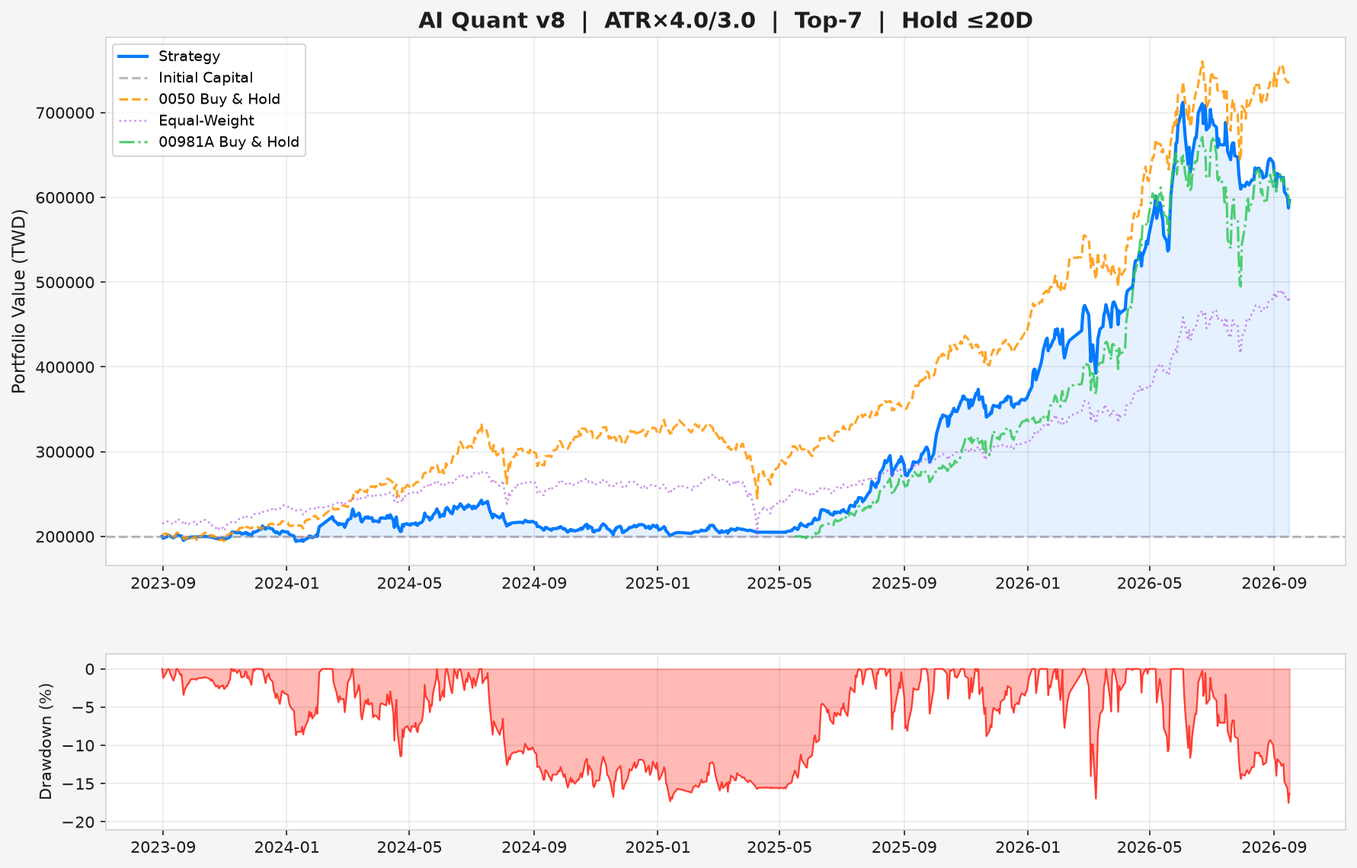
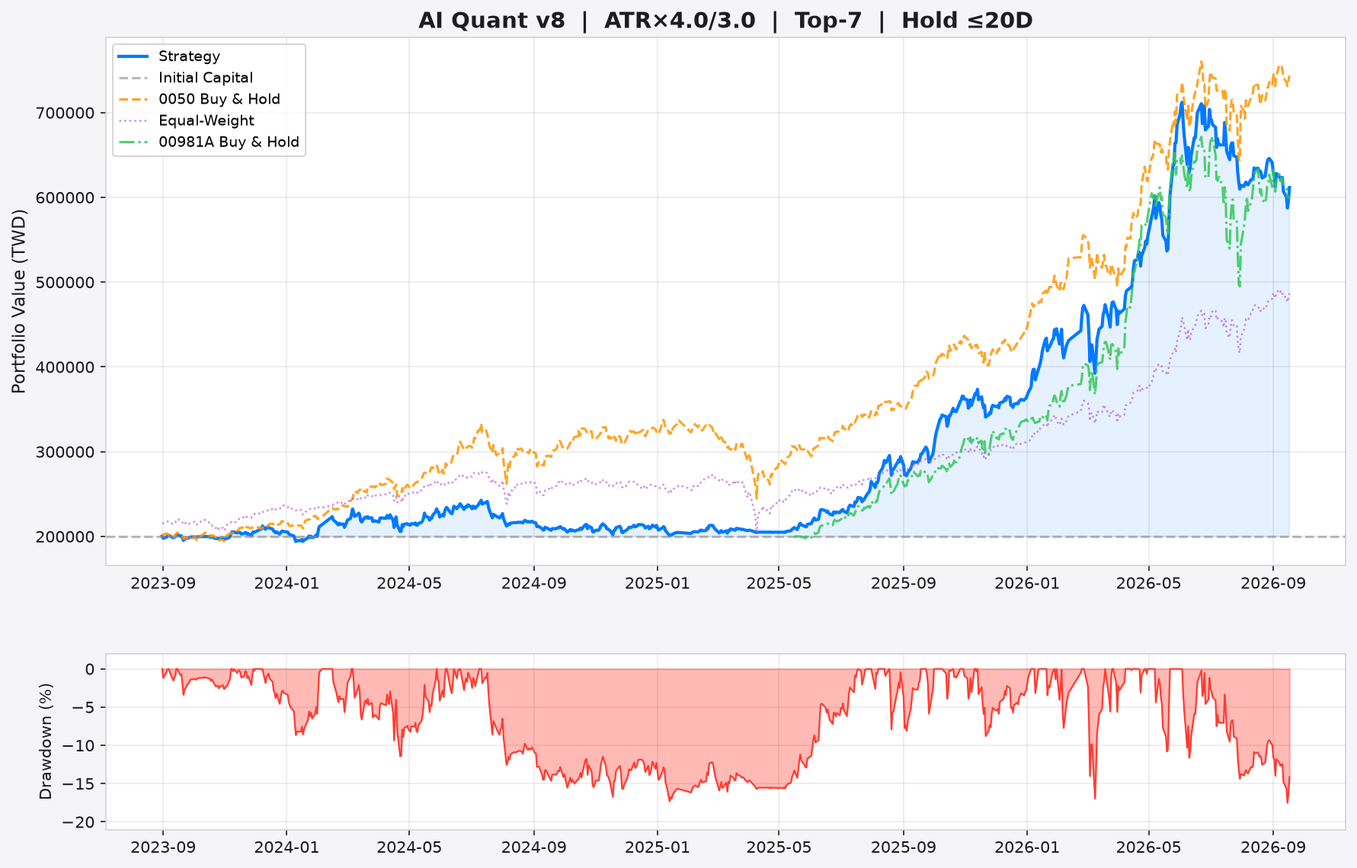
📊 AI Report v8.5 + Paper Trading (2026-09-17)

diff --git a/stock_report.html b/stock_report.html
@@ -3,7 +3,7 @@
 <head>
     <meta charset="utf-8">
     <meta name="viewport" content="width=device-width, initial-scale=1.0">
-    <title>AI 台股量化交易 v8.5 — 2026-09-16</title>
+    <title>AI 台股量化交易 v8.5 — 2026-09-17</title>
     <meta name="description" content="AI 驅動的台股量化交易系統 v8.5，完整風險報告、Benchmark 對比、OCO 智慧掛單建議">
     <script>
         (function() {
@@ -292,7 +292,7 @@
 
     <h1>🎯 AI 台股量化交易 v8.5</h1>
     <p class="subtitle">
-        Event-Driven System &nbsp;|&nbsp; 報表日期: 2026-09-16 &nbsp;|&nbsp;
+        Event-Driven System &nbsp;|&nbsp; 報表日期: 2026-09-17 &nbsp;|&nbsp;
         <span class="config-badge">🛡 ATR×4.0/3.0</span>
         <span class="config-badge">🎯 Top-7</span>
         <span class="config-badge">⏱ 最長 20 天</span>
@@ -303,23 +303,23 @@
     <div class="stats">
         <div class="stat-card">
             <div class="label">策略總報酬率</div>
-            <div class="value" style="color:#00ff00;">+198.2%</div>
+            <div class="value" style="color:#00ff00;">+205.8%</div>
         </div>
         <div class="stat-card">
             <div class="label">年化報酬率</div>
-            <div class="value" style="color:#00ff00;">+45.1%</div>
+            <div class="value" style="color:#00ff00;">+46.3%</div>
         </div>
         <div class="stat-card">
             <div class="label">年化波動率</div>
-            <div class="value">25.9%</div>
+            <div class="value">26.0%</div>
         </div>
         <div class="stat-card risk">
             <div class="label">Sharpe Ratio</div>
-            <div class="value" style="color:#00ff00;">1.57</div>
+            <div class="value" style="color:#00ff00;">1.60</div>
         </div>
         <div class="stat-card risk">
             <div class="label">Sortino Ratio</div>
-            <div class="value">2.25</div>
+            <div class="value">2.31</div>
         </div>
         <div class="stat-card risk">
             <div class="label">最大回撤</div>
@@ -327,7 +327,7 @@
         </div>
         <div class="stat-card risk">
             <div class="label">Calmar Ratio</div>
-            <div class="value">2.57</div>
+            <div class="value">2.64</div>
         </div>
         <div class="stat-card">
             <div class="label">完成交易數</div>
@@ -370,23 +370,23 @@
             </tr>
         </thead>
         <tbody>
-<tr><td>2883</td><td>3.98</td><td>39.2</td><td><span style="color:#00ff00; font-weight:bold;">🟢 建議買進 #1</span></td><td><b>停利:</b> <span style="color:#00ff00">43.5</span> (+11.1%) <br><b>停損:</b> <span style="color:#ff4444">35.9</span> (-8.3%) <br><b>最晚出場:</b> 2026-10-19</td><td><span style="font-size:0.72rem; color:#555;">歷史資料不足</span></td><td><span style="font-size:0.78rem;">🟢 大買<br><span style="color:#00ff00; font-weight:bold;">+3.8%</span></span></td><td><span style="font-size:0.78rem;">⚪ 中性</span></td></tr>
-<tr><td>2884</td><td>3.87</td><td>46.5</td><td><span style="color:#00ff00; font-weight:bold;">🟢 建議買進 #2</span></td><td><b>停利:</b> <span style="color:#00ff00">51.6</span> (+11.0%) <br><b>停損:</b> <span style="color:#ff4444">42.6</span> (-8.3%) <br><b>最晚出場:</b> 2026-10-19</td><td><span style="font-size:0.72rem; color:#888;">歷史 <b>4</b>筆 | 勝率 <b style="color:#00ff00">75%</b> | 均報酬 <b style="color:#00ff00">+1.9%</b></span></td><td><span style="font-size:0.78rem;">⚪ 無資料<br><span style="color:#888; font-weight:bold;">+0.0%</span></span></td><td><span style="font-size:0.78rem;">⚪ 中性</span></td></tr>
-<tr><td>2887</td><td>3.80</td><td>44.4</td><td><span style="color:#00ff00; font-weight:bold;">🟢 建議買進 #3</span></td><td><b>停利:</b> <span style="color:#00ff00">49.4</span> (+11.1%) <br><b>停損:</b> <span style="color:#ff4444">40.7</span> (-8.4%) <br><b>最晚出場:</b> 2026-10-19</td><td><span style="font-size:0.72rem; color:#888;">歷史 <b>2</b>筆 | 勝率 <b style="color:#00ff00">100%</b> | 均報酬 <b style="color:#00ff00">+8.1%</b></span></td><td><span style="font-size:0.78rem;">⚪ 無資料<br><span style="color:#888; font-weight:bold;">+0.0%</span></span></td><td><span style="font-size:0.78rem;">⚪ 中性</span></td></tr>
-<tr><td>1303</td><td>3.58</td><td>224.0</td><td><span style="color:#00ff00; font-weight:bold;">🟢 建議買進 #4</span></td><td><b>停利:</b> <span style="color:#00ff00">284.7</span> (+27.1%) <br><b>停損:</b> <span style="color:#ff4444">178.5</span> (-20.3%) <br><b>最晚出場:</b> 2026-10-19</td><td><span style="font-size:0.72rem; color:#888;">歷史 <b>11</b>筆 | 勝率 <b style="color:#00ff00">73%</b> | 均報酬 <b style="color:#00ff00">+8.2%</b></span></td><td><span style="font-size:0.78rem;">⚪ 無資料<br><span style="color:#888; font-weight:bold;">+0.0%</span></span></td><td><span style="font-size:0.78rem;">⚪ 中性</span></td></tr>
-<tr><td>2881</td><td>3.58</td><td>153.0</td><td><span style="color:#00ff00; font-weight:bold;">🟢 建議買進 #5</span></td><td><b>停利:</b> <span style="color:#00ff00">172.6</span> (+12.8%) <br><b>停損:</b> <span style="color:#ff4444">138.3</span> (-9.6%) <br><b>最晚出場:</b> 2026-10-19</td><td><span style="font-size:0.72rem; color:#888;">歷史 <b>5</b>筆 | 勝率 <b style="color:#ff4444">40%</b> | 均報酬 <b style="color:#00ff00">+0.4%</b></span></td><td><span style="font-size:0.78rem;">⚪ 無資料<br><span style="color:#888; font-weight:bold;">+0.0%</span></span></td><td><span style="font-size:0.78rem;">⚪ 中性</span></td></tr>
-<tr><td>2892</td><td>3.57</td><td>40.0</td><td><span style="color:#00ff00; font-weight:bold;">🟢 建議買進 #6</span></td><td><b>停利:</b> <span style="color:#00ff00">43.6</span> (+9.1%) <br><b>停損:</b> <span style="color:#ff4444">37.3</span> (-6.8%) <br><b>最晚出場:</b> 2026-10-19</td><td><span style="font-size:0.72rem; color:#555;">歷史資料不足</span></td><td><span style="font-size:0.78rem;">🟡 小買<br><span style="color:#ffab00; font-weight:bold;">+1.9%</span></span></td><td><span style="font-size:0.78rem;">⚪ 中性</span></td></tr>
-<tr><td>3443</td><td>3.55</td><td>6170.0</td><td><span style="color:#00ff00; font-weight:bold;">🟢 建議買進 #7</span></td><td><b>停利:</b> <span style="color:#00ff00">7706.0</span> (+24.9%) <br><b>停損:</b> <span style="color:#ff4444">5018.0</span> (-18.7%) <br><b>最晚出場:</b> 2026-10-19</td><td><span style="font-size:0.72rem; color:#888;">歷史 <b>12</b>筆 | 勝率 <b style="color:#00ff00">58%</b> | 均報酬 <b style="color:#00ff00">+2.7%</b></span></td><td><span style="font-size:0.78rem;">🟡 小買<br><span style="color:#ffab00; font-weight:bold;">+1.5%</span></span></td><td><span style="font-size:0.78rem;">⚪ 中性</span></td></tr>
-<tr style="opacity:0.6"><td>2303</td><td>3.45</td><td>142.0</td><td><span style="color:#ffab00">🟡 候選 (超出 Top-K)</span></td><td>-</td><td><span style="font-size:0.72rem; color:#888;">勝率 <b style="color:#00ff00">60%</b></span></td><td><span style="font-size:0.72rem;">⚪ 無資料<br><span style="color:#888">+0.0%</span></span></td><td><span style="font-size:0.72rem;">⚪ 中性</span></td></tr>
-<tr style="opacity:0.6"><td>2454</td><td>3.42</td><td>4530.0</td><td><span style="color:#ffab00">🟡 候選 (超出 Top-K)</span></td><td>-</td><td><span style="font-size:0.72rem; color:#888;">勝率 <b style="color:#00ff00">75%</b></span></td><td><span style="font-size:0.72rem;">⚪ 無資料<br><span style="color:#888">+0.0%</span></span></td><td><span style="font-size:0.72rem;">⚪ 中性</span></td></tr>
-<tr style="opacity:0.6"><td>5274O</td><td>3.35</td><td>18250.0</td><td><span style="color:#ffab00">🟡 候選 (超出 Top-K)</span></td><td>-</td><td><span style="font-size:0.72rem; color:#888;">勝率 <b style="color:#00ff00">81%</b></span></td><td><span style="font-size:0.72rem;">⚪ 無資料<br><span style="color:#888">+0.0%</span></span></td><td><span style="font-size:0.72rem;">⚪ 中性</span></td></tr>
-<tr style="opacity:0.6"><td>3529O</td><td>3.35</td><td>2700.0</td><td><span style="color:#ffab00">🟡 候選 (超出 Top-K)</span></td><td>-</td><td><span style="font-size:0.72rem; color:#888;">勝率 <b style="color:#ff4444">44%</b></span></td><td><span style="font-size:0.72rem;">⚪ 無資料<br><span style="color:#888">+0.0%</span></span></td><td><span style="font-size:0.72rem;">⚪ 中性</span></td></tr>
-<tr style="opacity:0.6"><td>6505</td><td>3.17</td><td>80.5</td><td><span style="color:#ffab00">🟡 候選 (超出 Top-K)</span></td><td>-</td><td><span style="font-size:0.72rem; color:#888;">勝率 <b style="color:#ff4444">0%</b></span></td><td><span style="font-size:0.72rem;">⚪ 無資料<br><span style="color:#888">+0.0%</span></span></td><td><span style="font-size:0.72rem;">⚪ 中性</span></td></tr>
-<tr style="opacity:0.4"><td>2449</td><td>2.55</td><td>261.5</td><td><span style="color:#aaaaaa">⚪ 觀望 (低於 MA)</span></td><td>-</td><td>-</td><td style="color:#555">-</td><td style="color:#555">-</td></tr>
-<tr style="opacity:0.4"><td>2301</td><td>1.95</td><td>277.0</td><td><span style="color:#aaaaaa">⚪ 觀望 (評分不足)</span></td><td>-</td><td>-</td><td style="color:#555">-</td><td style="color:#555">-</td></tr>
-<tr style="opacity:0.4"><td>6239</td><td>1.95</td><td>274.5</td><td><span style="color:#aaaaaa">⚪ 觀望 (評分不足)</span></td><td>-</td><td>-</td><td style="color:#555">-</td><td style="color:#555">-</td></tr>
-<tr style="opacity:0.4"><td>6669</td><td>1.93</td><td>2165.0</td><td><span style="color:#aaaaaa">⚪ 觀望 (評分不足)</span></td><td>-</td><td>-</td><td style="color:#555">-</td><td style="color:#555">-</td></tr>
-<tr style="opacity:0.4"><td>3711</td><td>1.87</td><td>605.0</td><td><span style="color:#aaaaaa">⚪ 觀望 (評分不足)</span></td><td>-</td><td>-</td><td style="color:#555">-</td><td style="color:#555">-</td></tr>
+<tr><td>2883</td><td>3.97</td><td>39.7</td><td><span style="color:#00ff00; font-weight:bold;">🟢 建議買進 #1</span></td><td><b>停利:</b> <span style="color:#00ff00">44.1</span> (+11.1%) <br><b>停損:</b> <span style="color:#ff4444">36.3</span> (-8.4%) <br><b>最晚出場:</b> 2026-10-20</td><td><span style="font-size:0.72rem; color:#555;">歷史資料不足</span></td><td><span style="font-size:0.78rem;">🟢 大買<br><span style="color:#00ff00; font-weight:bold;">+3.9%</span></span></td><td><span style="font-size:0.78rem;">⚪ 中性</span></td></tr>
+<tr><td>1303</td><td>3.82</td><td>236.0</td><td><span style="color:#00ff00; font-weight:bold;">🟢 建議買進 #2</span></td><td><b>停利:</b> <span style="color:#00ff00">297.6</span> (+26.1%) <br><b>停損:</b> <span style="color:#ff4444">189.8</span> (-19.6%) <br><b>最晚出場:</b> 2026-10-20</td><td><span style="font-size:0.72rem; color:#888;">歷史 <b>11</b>筆 | 勝率 <b style="color:#00ff00">73%</b> | 均報酬 <b style="color:#00ff00">+8.2%</b></span></td><td><span style="font-size:0.78rem;">⚪ 無資料<br><span style="color:#888; font-weight:bold;">+0.0%</span></span></td><td><span style="font-size:0.78rem;">⚪ 中性</span></td></tr>
+<tr><td>2884</td><td>3.80</td><td>47.3</td><td><span style="color:#00ff00; font-weight:bold;">🟢 建議買進 #3</span></td><td><b>停利:</b> <span style="color:#00ff00">52.5</span> (+11.1%) <br><b>停損:</b> <span style="color:#ff4444">43.4</span> (-8.3%) <br><b>最晚出場:</b> 2026-10-20</td><td><span style="font-size:0.72rem; color:#888;">歷史 <b>4</b>筆 | 勝率 <b style="color:#00ff00">75%</b> | 均報酬 <b style="color:#00ff00">+1.9%</b></span></td><td><span style="font-size:0.78rem;">⚪ 無資料<br><span style="color:#888; font-weight:bold;">+0.0%</span></span></td><td><span style="font-size:0.78rem;">⚪ 中性</span></td></tr>
+<tr><td>2887</td><td>3.68</td><td>44.0</td><td><span style="color:#00ff00; font-weight:bold;">🟢 建議買進 #4</span></td><td><b>停利:</b> <span style="color:#00ff00">49.0</span> (+11.3%) <br><b>停損:</b> <span style="color:#ff4444">40.3</span> (-8.5%) <br><b>最晚出場:</b> 2026-10-20</td><td><span style="font-size:0.72rem; color:#888;">歷史 <b>2</b>筆 | 勝率 <b style="color:#00ff00">100%</b> | 均報酬 <b style="color:#00ff00">+8.1%</b></span></td><td><span style="font-size:0.78rem;">⚪ 無資料<br><span style="color:#888; font-weight:bold;">+0.0%</span></span></td><td><span style="font-size:0.78rem;">⚪ 中性</span></td></tr>
+<tr><td>2303</td><td>3.60</td><td>147.5</td><td><span style="color:#00ff00; font-weight:bold;">🟢 建議買進 #5</span></td><td><b>停利:</b> <span style="color:#00ff00">175.4</span> (+18.9%) <br><b>停損:</b> <span style="color:#ff4444">126.6</span> (-14.2%) <br><b>最晚出場:</b> 2026-10-20</td><td><span style="font-size:0.72rem; color:#888;">歷史 <b>5</b>筆 | 勝率 <b style="color:#00ff00">60%</b> | 均報酬 <b style="color:#00ff00">+5.5%</b></span></td><td><span style="font-size:0.78rem;">⚪ 無資料<br><span style="color:#888; font-weight:bold;">+0.0%</span></span></td><td><span style="font-size:0.78rem;">⚪ 中性</span></td></tr>
+<tr><td>2892</td><td>3.58</td><td>40.8</td><td><span style="color:#00ff00; font-weight:bold;">🟢 建議買進 #6</span></td><td><b>停利:</b> <span style="color:#00ff00">44.5</span> (+9.2%) <br><b>停損:</b> <span style="color:#ff4444">37.9</span> (-6.9%) <br><b>最晚出場:</b> 2026-10-20</td><td><span style="font-size:0.72rem; color:#555;">歷史資料不足</span></td><td><span style="font-size:0.78rem;">🟡 小買<br><span style="color:#ffab00; font-weight:bold;">+1.9%</span></span></td><td><span style="font-size:0.78rem;">⚪ 中性</span></td></tr>
+<tr><td>6505</td><td>3.45</td><td>86.2</td><td><span style="color:#00ff00; font-weight:bold;">🟢 建議買進 #7</span></td><td><b>停利:</b> <span style="color:#00ff00">103.4</span> (+20.0%) <br><b>停損:</b> <span style="color:#ff4444">73.3</span> (-15.0%) <br><b>最晚出場:</b> 2026-10-20</td><td><span style="font-size:0.72rem; color:#888;">歷史 <b>2</b>筆 | 勝率 <b style="color:#ff4444">0%</b> | 均報酬 <b style="color:#ff4444">-10.4%</b></span></td><td><span style="font-size:0.78rem;">⚪ 無資料<br><span style="color:#888; font-weight:bold;">+0.0%</span></span></td><td><span style="font-size:0.78rem;">⚪ 中性</span></td></tr>
+<tr style="opacity:0.6"><td>2881</td><td>3.42</td><td>151.5</td><td><span style="color:#ffab00">🟡 候選 (超出 Top-K)</span></td><td>-</td><td><span style="font-size:0.72rem; color:#888;">勝率 <b style="color:#ff4444">40%</b></span></td><td><span style="font-size:0.72rem;">⚪ 無資料<br><span style="color:#888">+0.0%</span></span></td><td><span style="font-size:0.72rem;">⚪ 中性</span></td></tr>
+<tr style="opacity:0.6"><td>3443</td><td>3.40</td><td>6500.0</td><td><span style="color:#ffab00">🟡 候選 (超出 Top-K)</span></td><td>-</td><td><span style="font-size:0.72rem; color:#888;">勝率 <b style="color:#00ff00">58%</b></span></td><td><span style="font-size:0.72rem;">🟡 小買<br><span style="color:#888">+1.1%</span></span></td><td><span style="font-size:0.72rem;">⚪ 中性</span></td></tr>
+<tr style="opacity:0.6"><td>2454</td><td>3.40</td><td>4500.0</td><td><span style="color:#ffab00">🟡 候選 (超出 Top-K)</span></td><td>-</td><td><span style="font-size:0.72rem; color:#888;">勝率 <b style="color:#00ff00">75%</b></span></td><td><span style="font-size:0.72rem;">⚪ 無資料<br><span style="color:#888">+0.0%</span></span></td><td><span style="font-size:0.72rem;">⚪ 中性</span></td></tr>
+<tr style="opacity:0.6"><td>3529O</td><td>3.33</td><td>2710.0</td><td><span style="color:#ffab00">🟡 候選 (超出 Top-K)</span></td><td>-</td><td><span style="font-size:0.72rem; color:#888;">勝率 <b style="color:#ff4444">44%</b></span></td><td><span style="font-size:0.72rem;">⚪ 無資料<br><span style="color:#888">+0.0%</span></span></td><td><span style="font-size:0.72rem;">⚪ 中性</span></td></tr>
+<tr style="opacity:0.6"><td>5274O</td><td>3.32</td><td>18275.0</td><td><span style="color:#ffab00">🟡 候選 (超出 Top-K)</span></td><td>-</td><td><span style="font-size:0.72rem; color:#888;">勝率 <b style="color:#00ff00">81%</b></span></td><td><span style="font-size:0.72rem;">⚪ 無資料<br><span style="color:#888">+0.0%</span></span></td><td><span style="font-size:0.72rem;">⚪ 中性</span></td></tr>
+<tr style="opacity:0.4"><td>2379</td><td>1.95</td><td>715.0</td><td><span style="color:#aaaaaa">⚪ 觀望 (評分不足)</span></td><td>-</td><td>-</td><td style="color:#555">-</td><td style="color:#555">-</td></tr>
+<tr style="opacity:0.4"><td>2395</td><td>1.88</td><td>686.0</td><td><span style="color:#aaaaaa">⚪ 觀望 (評分不足)</span></td><td>-</td><td>-</td><td style="color:#555">-</td><td style="color:#555">-</td></tr>
+<tr style="opacity:0.4"><td>3481</td><td>1.88</td><td>48.5</td><td><span style="color:#aaaaaa">⚪ 觀望 (評分不足)</span></td><td>-</td><td>-</td><td style="color:#555">-</td><td style="color:#555">-</td></tr>
+<tr style="opacity:0.4"><td>3034</td><td>1.87</td><td>545.0</td><td><span style="color:#aaaaaa">⚪ 觀望 (評分不足)</span></td><td>-</td><td>-</td><td style="color:#555">-</td><td style="color:#555">-</td></tr>
+<tr style="opacity:0.4"><td>3711</td><td>1.78</td><td>614.0</td><td><span style="color:#aaaaaa">⚪ 觀望 (評分不足)</span></td><td>-</td><td>-</td><td style="color:#555">-</td><td style="color:#555">-</td></tr>
 
         </tbody>
     </table>
@@ -407,21 +407,21 @@
                     <th style="text-align:right;">持股</th>
                     <th style="width:80px;">幅度</th>
                 </tr></thead>
-                <tbody><tr><td style="text-align:center;color:#888;">1</td><td><b>1815</b> 富喬</td><td style="text-align:right;color:#00ff00;font-weight:bold;">+11.1%</td><td style="text-align:right;">12.8%</td><td><div style="background:linear-gradient(90deg,#00ff0044 88.40764348225515%,transparent 88.40764348225515%);height:18px;border-radius:3px;"></div></td></tr>
-<tr><td style="text-align:center;color:#888;">2</td><td><b>2455</b> 全新</td><td style="text-align:right;color:#00ff00;font-weight:bold;">+9.6%</td><td style="text-align:right;">36.1%</td><td><div style="background:linear-gradient(90deg,#00ff0044 76.82751869434486%,transparent 76.82751869434486%);height:18px;border-radius:3px;"></div></td></tr>
-<tr><td style="text-align:center;color:#888;">3</td><td><b>3406</b> 玉晶光</td><td style="text-align:right;color:#00ff00;font-weight:bold;">+8.7%</td><td style="text-align:right;">51.0%</td><td><div style="background:linear-gradient(90deg,#00ff0044 69.91091373133975%,transparent 69.91091373133975%);height:18px;border-radius:3px;"></div></td></tr>
-<tr><td style="text-align:center;color:#888;">4</td><td><b>6226</b> 光鼎</td><td style="text-align:right;color:#00ff00;font-weight:bold;">+7.0%</td><td style="text-align:right;">9.5%</td><td><div style="background:linear-gradient(90deg,#00ff0044 55.60313252487093%,transparent 55.60313252487093%);height:18px;border-radius:3px;"></div></td></tr>
-<tr><td style="text-align:center;color:#888;">5</td><td><b>6933</b> AMAX-KY</td><td style="text-align:right;color:#00ff00;font-weight:bold;">+6.6%</td><td style="text-align:right;">36.4%</td><td><div style="background:linear-gradient(90deg,#00ff0044 53.0623873332714%,transparent 53.0623873332714%);height:18px;border-radius:3px;"></div></td></tr>
-<tr><td style="text-align:center;color:#888;">6</td><td><b>3094</b> 聯傑</td><td style="text-align:right;color:#00ff00;font-weight:bold;">+5.4%</td><td style="text-align:right;">7.7%</td><td><div style="background:linear-gradient(90deg,#00ff0044 42.987029734884004%,transparent 42.987029734884004%);height:18px;border-radius:3px;"></div></td></tr>
-<tr><td style="text-align:center;color:#888;">7</td><td><b>3105</b> 穩懋</td><td style="text-align:right;color:#00ff00;font-weight:bold;">+5.1%</td><td style="text-align:right;">10.8%</td><td><div style="background:linear-gradient(90deg,#00ff0044 40.77825621821393%,transparent 40.77825621821393%);height:18px;border-radius:3px;"></div></td></tr>
-<tr><td style="text-align:center;color:#888;">8</td><td><b>6805</b> 富世達</td><td style="text-align:right;color:#00ff00;font-weight:bold;">+4.9%</td><td style="text-align:right;">19.7%</td><td><div style="background:linear-gradient(90deg,#00ff0044 39.580559585410015%,transparent 39.580559585410015%);height:18px;border-radius:3px;"></div></td></tr>
-<tr><td style="text-align:center;color:#888;">9</td><td><b>2421</b> 建準</td><td style="text-align:right;color:#00ff00;font-weight:bold;">+4.9%</td><td style="text-align:right;">38.1%</td><td><div style="background:linear-gradient(90deg,#00ff0044 38.88162261813136%,transparent 38.88162261813136%);height:18px;border-radius:3px;"></div></td></tr>
-<tr><td style="text-align:center;color:#888;">10</td><td><b>8103</b> 瀚荃</td><td style="text-align:right;color:#00ff00;font-weight:bold;">+4.8%</td><td style="text-align:right;">22.6%</td><td><div style="background:linear-gradient(90deg,#00ff0044 38.63090887271338%,transparent 38.63090887271338%);height:18px;border-radius:3px;"></div></td></tr>
-<tr><td style="text-align:center;color:#888;">11</td><td><b>6426</b> 統新</td><td style="text-align:right;color:#00ff00;font-weight:bold;">+4.7%</td><td style="text-align:right;">14.1%</td><td><div style="background:linear-gradient(90deg,#00ff0044 37.22891791529253%,transparent 37.22891791529253%);height:18px;border-radius:3px;"></div></td></tr>
-<tr><td style="text-align:center;color:#888;">12</td><td><b>6510</b> 精測</td><td style="text-align:right;color:#00ff00;font-weight:bold;">+4.5%</td><td style="text-align:right;">1.3%</td><td><div style="background:linear-gradient(90deg,#00ff0044 36.27521430800833%,transparent 36.27521430800833%);height:18px;border-radius:3px;"></div></td></tr>
-<tr><td style="text-align:center;color:#888;">13</td><td><b>3374</b> 精材</td><td style="text-align:right;color:#00ff00;font-weight:bold;">+4.4%</td><td style="text-align:right;">7.0%</td><td><div style="background:linear-gradient(90deg,#00ff0044 35.055483124022835%,transparent 35.055483124022835%);height:18px;border-radius:3px;"></div></td></tr>
-<tr><td style="text-align:center;color:#888;">14</td><td><b>2491</b> 吉祥全</td><td style="text-align:right;color:#00ff00;font-weight:bold;">+4.0%</td><td style="text-align:right;">9.7%</td><td><div style="background:linear-gradient(90deg,#00ff0044 32.34539459564922%,transparent 32.34539459564922%);height:18px;border-radius:3px;"></div></td></tr>
-<tr><td style="text-align:center;color:#888;">15</td><td><b>2883</b> 凱基金</td><td style="text-align:right;color:#00ff00;font-weight:bold;">+3.8%</td><td style="text-align:right;">35.0%</td><td><div style="background:linear-gradient(90deg,#00ff0044 30.68620603030675%,transparent 30.68620603030675%);height:18px;border-radius:3px;"></div></td></tr>
+                <tbody><tr><td style="text-align:center;color:#888;">1</td><td><b>1815</b> 富喬</td><td style="text-align:right;color:#00ff00;font-weight:bold;">+10.9%</td><td style="text-align:right;">12.7%</td><td><div style="background:linear-gradient(90deg,#00ff0044 87.334555396828%,transparent 87.334555396828%);height:18px;border-radius:3px;"></div></td></tr>
+<tr><td style="text-align:center;color:#888;">2</td><td><b>3406</b> 玉晶光</td><td style="text-align:right;color:#00ff00;font-weight:bold;">+8.3%</td><td style="text-align:right;">50.8%</td><td><div style="background:linear-gradient(90deg,#00ff0044 66.33780929226668%,transparent 66.33780929226668%);height:18px;border-radius:3px;"></div></td></tr>
+<tr><td style="text-align:center;color:#888;">3</td><td><b>2455</b> 全新</td><td style="text-align:right;color:#00ff00;font-weight:bold;">+8.1%</td><td style="text-align:right;">35.3%</td><td><div style="background:linear-gradient(90deg,#00ff0044 64.58592608593526%,transparent 64.58592608593526%);height:18px;border-radius:3px;"></div></td></tr>
+<tr><td style="text-align:center;color:#888;">4</td><td><b>6226</b> 光鼎</td><td style="text-align:right;color:#00ff00;font-weight:bold;">+6.5%</td><td style="text-align:right;">9.3%</td><td><div style="background:linear-gradient(90deg,#00ff0044 51.85934236102686%,transparent 51.85934236102686%);height:18px;border-radius:3px;"></div></td></tr>
+<tr><td style="text-align:center;color:#888;">5</td><td><b>6933</b> AMAX-KY</td><td style="text-align:right;color:#00ff00;font-weight:bold;">+6.4%</td><td style="text-align:right;">36.1%</td><td><div style="background:linear-gradient(90deg,#00ff0044 51.585178765013154%,transparent 51.585178765013154%);height:18px;border-radius:3px;"></div></td></tr>
+<tr><td style="text-align:center;color:#888;">6</td><td><b>3094</b> 聯傑</td><td style="text-align:right;color:#00ff00;font-weight:bold;">+5.9%</td><td style="text-align:right;">8.3%</td><td><div style="background:linear-gradient(90deg,#00ff0044 47.0441126666503%,transparent 47.0441126666503%);height:18px;border-radius:3px;"></div></td></tr>
+<tr><td style="text-align:center;color:#888;">7</td><td><b>6426</b> 統新</td><td style="text-align:right;color:#00ff00;font-weight:bold;">+5.8%</td><td style="text-align:right;">15.2%</td><td><div style="background:linear-gradient(90deg,#00ff0044 46.61444545430939%,transparent 46.61444545430939%);height:18px;border-radius:3px;"></div></td></tr>
+<tr><td style="text-align:center;color:#888;">8</td><td><b>3105</b> 穩懋</td><td style="text-align:right;color:#00ff00;font-weight:bold;">+5.3%</td><td style="text-align:right;">10.9%</td><td><div style="background:linear-gradient(90deg,#00ff0044 42.79351126879198%,transparent 42.79351126879198%);height:18px;border-radius:3px;"></div></td></tr>
+<tr><td style="text-align:center;color:#888;">9</td><td><b>6805</b> 富世達</td><td style="text-align:right;color:#00ff00;font-weight:bold;">+5.3%</td><td style="text-align:right;">20.0%</td><td><div style="background:linear-gradient(90deg,#00ff0044 42.54429584337558%,transparent 42.54429584337558%);height:18px;border-radius:3px;"></div></td></tr>
+<tr><td style="text-align:center;color:#888;">10</td><td><b>2421</b> 建準</td><td style="text-align:right;color:#00ff00;font-weight:bold;">+4.9%</td><td style="text-align:right;">38.0%</td><td><div style="background:linear-gradient(90deg,#00ff0044 38.86959312449585%,transparent 38.86959312449585%);height:18px;border-radius:3px;"></div></td></tr>
+<tr><td style="text-align:center;color:#888;">11</td><td><b>6510</b> 精測</td><td style="text-align:right;color:#00ff00;font-weight:bold;">+4.6%</td><td style="text-align:right;">1.2%</td><td><div style="background:linear-gradient(90deg,#00ff0044 37.07621410605049%,transparent 37.07621410605049%);height:18px;border-radius:3px;"></div></td></tr>
+<tr><td style="text-align:center;color:#888;">12</td><td><b>3374</b> 精材</td><td style="text-align:right;color:#00ff00;font-weight:bold;">+4.6%</td><td style="text-align:right;">7.1%</td><td><div style="background:linear-gradient(90deg,#00ff0044 37.068422806187975%,transparent 37.068422806187975%);height:18px;border-radius:3px;"></div></td></tr>
+<tr><td style="text-align:center;color:#888;">13</td><td><b>2351</b> 順德</td><td style="text-align:right;color:#00ff00;font-weight:bold;">+4.3%</td><td style="text-align:right;">27.0%</td><td><div style="background:linear-gradient(90deg,#00ff0044 34.56158065228075%,transparent 34.56158065228075%);height:18px;border-radius:3px;"></div></td></tr>
+<tr><td style="text-align:center;color:#888;">14</td><td><b>4967</b> 十銓</td><td style="text-align:right;color:#00ff00;font-weight:bold;">+4.2%</td><td style="text-align:right;">8.8%</td><td><div style="background:linear-gradient(90deg,#00ff0044 33.24388061441312%,transparent 33.24388061441312%);height:18px;border-radius:3px;"></div></td></tr>
+<tr><td style="text-align:center;color:#888;">15</td><td><b>2491</b> 吉祥全</td><td style="text-align:right;color:#00ff00;font-weight:bold;">+4.1%</td><td style="text-align:right;">9.7%</td><td><div style="background:linear-gradient(90deg,#00ff0044 33.07514974148863%,transparent 33.07514974148863%);height:18px;border-radius:3px;"></div></td></tr>
 </tbody>
             </table>
         </div>
@@ -435,21 +435,21 @@
                     <th style="text-align:right;">持股</th>
                     <th style="width:80px;">幅度</th>
                 </tr></thead>
-                <tbody><tr><td style="text-align:center;color:#888;">1</td><td><b>6176</b> 瑞儀</td><td style="text-align:right;color:#ff4444;font-weight:bold;">-11.5%</td><td style="text-align:right;">-8.2%</td><td><div style="background:linear-gradient(90deg,#ff444444 92.25564549493816%,transparent 92.25564549493816%);height:18px;border-radius:3px;"></div></td></tr>
-<tr><td style="text-align:center;color:#888;">2</td><td><b>3605</b> 宏致</td><td style="text-align:right;color:#ff4444;font-weight:bold;">-8.4%</td><td style="text-align:right;">20.1%</td><td><div style="background:linear-gradient(90deg,#ff444444 67.36453487260869%,transparent 67.36453487260869%);height:18px;border-radius:3px;"></div></td></tr>
-<tr><td style="text-align:center;color:#888;">3</td><td><b>8039</b> 台虹</td><td style="text-align:right;color:#ff4444;font-weight:bold;">-8.0%</td><td style="text-align:right;">16.5%</td><td><div style="background:linear-gradient(90deg,#ff444444 64.32657968483016%,transparent 64.32657968483016%);height:18px;border-radius:3px;"></div></td></tr>
-<tr><td style="text-align:center;color:#888;">4</td><td><b>2359</b> 所羅門</td><td style="text-align:right;color:#ff4444;font-weight:bold;">-7.4%</td><td style="text-align:right;">6.2%</td><td><div style="background:linear-gradient(90deg,#ff444444 58.850057012772034%,transparent 58.850057012772034%);height:18px;border-radius:3px;"></div></td></tr>
-<tr><td style="text-align:center;color:#888;">5</td><td><b>2634</b> 漢翔</td><td style="text-align:right;color:#ff4444;font-weight:bold;">-6.8%</td><td style="text-align:right;">1.9%</td><td><div style="background:linear-gradient(90deg,#ff444444 54.62083557633467%,transparent 54.62083557633467%);height:18px;border-radius:3px;"></div></td></tr>
-<tr><td style="text-align:center;color:#888;">6</td><td><b>6669</b> 緯穎</td><td style="text-align:right;color:#ff4444;font-weight:bold;">-6.6%</td><td style="text-align:right;">26.2%</td><td><div style="background:linear-gradient(90deg,#ff444444 52.584854781424184%,transparent 52.584854781424184%);height:18px;border-radius:3px;"></div></td></tr>
-<tr><td style="text-align:center;color:#888;">7</td><td><b>0055</b> 元大MSCI金融</td><td style="text-align:right;color:#ff4444;font-weight:bold;">-6.6%</td><td style="text-align:right;">-10.6%</td><td><div style="background:linear-gradient(90deg,#ff444444 52.435893991516224%,transparent 52.435893991516224%);height:18px;border-radius:3px;"></div></td></tr>
-<tr><td style="text-align:center;color:#888;">8</td><td><b>3645</b> 達邁</td><td style="text-align:right;color:#ff4444;font-weight:bold;">-6.2%</td><td style="text-align:right;">8.9%</td><td><div style="background:linear-gradient(90deg,#ff444444 49.45439941544177%,transparent 49.45439941544177%);height:18px;border-radius:3px;"></div></td></tr>
-<tr><td style="text-align:center;color:#888;">9</td><td><b>0053</b> 元大電子</td><td style="text-align:right;color:#ff4444;font-weight:bold;">-5.8%</td><td style="text-align:right;">-19.1%</td><td><div style="background:linear-gradient(90deg,#ff444444 46.14342384354855%,transparent 46.14342384354855%);height:18px;border-radius:3px;"></div></td></tr>
-<tr><td style="text-align:center;color:#888;">10</td><td><b>5388</b> 中磊</td><td style="text-align:right;color:#ff4444;font-weight:bold;">-5.6%</td><td style="text-align:right;">6.5%</td><td><div style="background:linear-gradient(90deg,#ff444444 45.13177522713864%,transparent 45.13177522713864%);height:18px;border-radius:3px;"></div></td></tr>
-<tr><td style="text-align:center;color:#888;">11</td><td><b>3293</b> 鈊象</td><td style="text-align:right;color:#ff4444;font-weight:bold;">-4.8%</td><td style="text-align:right;">5.9%</td><td><div style="background:linear-gradient(90deg,#ff444444 38.47424549388584%,transparent 38.47424549388584%);height:18px;border-radius:3px;"></div></td></tr>
-<tr><td style="text-align:center;color:#888;">12</td><td><b>3231</b> 緯創</td><td style="text-align:right;color:#ff4444;font-weight:bold;">-4.7%</td><td style="text-align:right;">34.0%</td><td><div style="background:linear-gradient(90deg,#ff444444 37.741774827904635%,transparent 37.741774827904635%);height:18px;border-radius:3px;"></div></td></tr>
-<tr><td style="text-align:center;color:#888;">13</td><td><b>3209</b> 全科</td><td style="text-align:right;color:#ff4444;font-weight:bold;">-4.6%</td><td style="text-align:right;">11.5%</td><td><div style="background:linear-gradient(90deg,#ff444444 36.72551212169628%,transparent 36.72551212169628%);height:18px;border-radius:3px;"></div></td></tr>
-<tr><td style="text-align:center;color:#888;">14</td><td><b>3665</b> 貿聯-KY</td><td style="text-align:right;color:#ff4444;font-weight:bold;">-4.5%</td><td style="text-align:right;">49.6%</td><td><div style="background:linear-gradient(90deg,#ff444444 36.353605339350565%,transparent 36.353605339350565%);height:18px;border-radius:3px;"></div></td></tr>
-<tr><td style="text-align:center;color:#888;">15</td><td><b>8996</b> 高力</td><td style="text-align:right;color:#ff4444;font-weight:bold;">-4.5%</td><td style="text-align:right;">36.8%</td><td><div style="background:linear-gradient(90deg,#ff444444 35.7206171250308%,transparent 35.7206171250308%);height:18px;border-radius:3px;"></div></td></tr>
+                <tbody><tr><td style="text-align:center;color:#888;">1</td><td><b>6176</b> 瑞儀</td><td style="text-align:right;color:#ff4444;font-weight:bold;">-11.6%</td><td style="text-align:right;">-8.2%</td><td><div style="background:linear-gradient(90deg,#ff444444 92.55459085621177%,transparent 92.55459085621177%);height:18px;border-radius:3px;"></div></td></tr>
+<tr><td style="text-align:center;color:#888;">2</td><td><b>6669</b> 緯穎</td><td style="text-align:right;color:#ff4444;font-weight:bold;">-8.1%</td><td style="text-align:right;">24.5%</td><td><div style="background:linear-gradient(90deg,#ff444444 65.09982166573971%,transparent 65.09982166573971%);height:18px;border-radius:3px;"></div></td></tr>
+<tr><td style="text-align:center;color:#888;">3</td><td><b>8039</b> 台虹</td><td style="text-align:right;color:#ff4444;font-weight:bold;">-7.6%</td><td style="text-align:right;">15.8%</td><td><div style="background:linear-gradient(90deg,#ff444444 60.959072064423324%,transparent 60.959072064423324%);height:18px;border-radius:3px;"></div></td></tr>
+<tr><td style="text-align:center;color:#888;">4</td><td><b>3605</b> 宏致</td><td style="text-align:right;color:#ff4444;font-weight:bold;">-7.4%</td><td style="text-align:right;">21.0%</td><td><div style="background:linear-gradient(90deg,#ff444444 59.229174836510595%,transparent 59.229174836510595%);height:18px;border-radius:3px;"></div></td></tr>
+<tr><td style="text-align:center;color:#888;">5</td><td><b>0055</b> 元大MSCI金融</td><td style="text-align:right;color:#ff4444;font-weight:bold;">-6.7%</td><td style="text-align:right;">-10.9%</td><td><div style="background:linear-gradient(90deg,#ff444444 53.27474964414876%,transparent 53.27474964414876%);height:18px;border-radius:3px;"></div></td></tr>
+<tr><td style="text-align:center;color:#888;">6</td><td><b>3645</b> 達邁</td><td style="text-align:right;color:#ff4444;font-weight:bold;">-6.2%</td><td style="text-align:right;">9.0%</td><td><div style="background:linear-gradient(90deg,#ff444444 49.645815900932405%,transparent 49.645815900932405%);height:18px;border-radius:3px;"></div></td></tr>
+<tr><td style="text-align:center;color:#888;">7</td><td><b>0053</b> 元大電子</td><td style="text-align:right;color:#ff4444;font-weight:bold;">-5.6%</td><td style="text-align:right;">-19.5%</td><td><div style="background:linear-gradient(90deg,#ff444444 44.5135505578498%,transparent 44.5135505578498%);height:18px;border-radius:3px;"></div></td></tr>
+<tr><td style="text-align:center;color:#888;">8</td><td><b>5388</b> 中磊</td><td style="text-align:right;color:#ff4444;font-weight:bold;">-5.2%</td><td style="text-align:right;">6.5%</td><td><div style="background:linear-gradient(90deg,#ff444444 41.90669817616231%,transparent 41.90669817616231%);height:18px;border-radius:3px;"></div></td></tr>
+<tr><td style="text-align:center;color:#888;">9</td><td><b>2359</b> 所羅門</td><td style="text-align:right;color:#ff4444;font-weight:bold;">-5.1%</td><td style="text-align:right;">6.2%</td><td><div style="background:linear-gradient(90deg,#ff444444 40.71209025019569%,transparent 40.71209025019569%);height:18px;border-radius:3px;"></div></td></tr>
+<tr><td style="text-align:center;color:#888;">10</td><td><b>2634</b> 漢翔</td><td style="text-align:right;color:#ff4444;font-weight:bold;">-4.6%</td><td style="text-align:right;">2.4%</td><td><div style="background:linear-gradient(90deg,#ff444444 36.7661447177355%,transparent 36.7661447177355%);height:18px;border-radius:3px;"></div></td></tr>
+<tr><td style="text-align:center;color:#888;">11</td><td><b>8112</b> 至上</td><td style="text-align:right;color:#ff4444;font-weight:bold;">-4.6%</td><td style="text-align:right;">15.9%</td><td><div style="background:linear-gradient(90deg,#ff444444 36.54199165403516%,transparent 36.54199165403516%);height:18px;border-radius:3px;"></div></td></tr>
+<tr><td style="text-align:center;color:#888;">12</td><td><b>2486</b> 一詮</td><td style="text-align:right;color:#ff4444;font-weight:bold;">-4.6%</td><td style="text-align:right;">9.4%</td><td><div style="background:linear-gradient(90deg,#ff444444 36.40048532385727%,transparent 36.40048532385727%);height:18px;border-radius:3px;"></div></td></tr>
+<tr><td style="text-align:center;color:#888;">13</td><td><b>3293</b> 鈊象</td><td style="text-align:right;color:#ff4444;font-weight:bold;">-4.5%</td><td style="text-align:right;">6.0%</td><td><div style="background:linear-gradient(90deg,#ff444444 36.18256761956889%,transparent 36.18256761956889%);height:18px;border-radius:3px;"></div></td></tr>
+<tr><td style="text-align:center;color:#888;">14</td><td><b>3665</b> 貿聯-KY</td><td style="text-align:right;color:#ff4444;font-weight:bold;">-4.4%</td><td style="text-align:right;">49.4%</td><td><div style="background:linear-gradient(90deg,#ff444444 35.24268101740944%,transparent 35.24268101740944%);height:18px;border-radius:3px;"></div></td></tr>
+<tr><td style="text-align:center;color:#888;">15</td><td><b>8028</b> 昇陽半導體</td><td style="text-align:right;color:#ff4444;font-weight:bold;">-4.3%</td><td style="text-align:right;">17.6%</td><td><div style="background:linear-gradient(90deg,#ff444444 34.34155909413025%,transparent 34.34155909413025%);height:18px;border-radius:3px;"></div></td></tr>
 </tbody>
             </table>
         </div>
@@ -461,7 +461,7 @@
     <div class="stats">
         <div class="stat-card benchmark">
             <div class="label">0050 年化報酬</div>
-            <div class="value">+50.7%</div>
+            <div class="value">+51.2%</div>
         </div>
         <div class="stat-card benchmark">
             <div class="label">0050 最大回撤</div>
@@ -469,18 +469,18 @@
         </div>
         <div class="stat-card benchmark">
             <div class="label">0050 Sharpe</div>
-            <div class="value">1.77</div>
+            <div class="value">1.78</div>
         </div>
         <div class="stat-card" style="border-left-color:#ff4444">
             <div class="label">超額年化報酬 (α)</div>
-            <div class="value" style="color:#ff4444">-5.7%</div>
+            <div class="value" style="color:#ff4444">-4.9%</div>
         </div>
     </div>
 
     <div class="stats">
         <div class="stat-card benchmark">
             <div class="label">00981A 年化報酬</div>
-            <div class="value">+129.0%</div>
+            <div class="value">+131.1%</div>
         </div>
         <div class="stat-card benchmark">
             <div class="label">00981A 最大回撤</div>
@@ -488,11 +488,11 @@
         </div>
         <div class="stat-card benchmark">
             <div class="label">00981A Sharpe</div>
-            <div class="value">2.51</div>
+            <div class="value">2.55</div>
         </div>
         <div class="stat-card" style="border-left-color:#ff4444">
             <div class="label">超額 vs 00981A (共存期)</div>
-            <div class="value" style="color:#ff4444">-11.8%</div>
+            <div class="value" style="color:#ff4444">-9.0%</div>
         </div>
     </div>
     <img src="backtest_chart.png" alt="AI Quantitative Backtest Equity Curve with Benchmark">
@@ -507,19 +507,19 @@
         </div>
         <div class="stat-card benchmark">
             <div class="label">0050 近 5 日</div>
-            <div class="value" style="color:#ff4444">-2.5%</div>
+            <div class="value" style="color:#ff4444">-1.0%</div>
         </div>
         <div class="stat-card benchmark">
             <div class="label">0050 近 20 日</div>
-            <div class="value" style="color:#00ff00">+3.7%</div>
+            <div class="value" style="color:#00ff00">+4.1%</div>
         </div>
         <div class="stat-card benchmark">
             <div class="label">0050 近 60 日</div>
-            <div class="value" style="color:#00ff00">+0.4%</div>
+            <div class="value" style="color:#00ff00">+1.4%</div>
         </div>
         <div class="stat-card risk">
             <div class="label">市場波動率 (20D)</div>
-            <div class="value">17.7%</div>
+            <div class="value">17.4%</div>
         </div>
     </div>
 
@@ -529,7 +529,7 @@
     <div class="stats">
         <div class="stat-card risk">
             <div class="label">目前回撤</div>
-            <div class="value" style="color:#ff4444">-16.3%</div>
+            <div class="value" style="color:#ff4444">-14.1%</div>
         </div>
         <div class="stat-card">
             <div class="label">權益最高點</div>
@@ -543,7 +543,7 @@
     <table>
         <thead><tr><th>#</th><th>開始日</th><th>恢復日</th><th>最大深度</th><th>持續天數</th></tr></thead>
         <tbody>
-<tr><td>#1</td><td>2026-06-23</td><td>2026-09-16</td><td style="color:#ff4444; font-weight:bold">-17.5%</td><td>85 天</td></tr>
+<tr><td>#1</td><td>2026-06-23</td><td>2026-09-17</td><td style="color:#ff4444; font-weight:bold">-17.5%</td><td>86 天</td></tr>
 <tr><td>#2</td><td>2024-07-12</td><td>2025-07-17</td><td style="color:#ff4444; font-weight:bold">-17.3%</td><td>370 天</td></tr>
 <tr><td>#3</td><td>2026-03-02</td><td>2026-03-19</td><td style="color:#ff4444; font-weight:bold">-17.0%</td><td>17 天</td></tr>
 <tr><td>#4</td><td>2026-06-04</td><td>2026-06-22</td><td style="color:#ff4444; font-weight:bold">-11.6%</td><td>18 天</td></tr>
@@ -558,7 +558,7 @@
     <div class="stats">
         <div class="stat-card" style="border-left-color:#ff4444">
             <div class="label">近 60 日 Sharpe</div>
-            <div class="value" style="color:#ff4444">-2.33</div>
+            <div class="value" style="color:#ff4444">-2.32</div>
         </div>
         <div class="stat-card">
             <div class="label">歷史平均 Sharpe</div>
@@ -723,7 +723,7 @@
 <tr style="background:rgba(0,255,0,0.08)"><td>2026-06</td><td style="color:#00ff00; font-weight:bold">+2.7%</td></tr>
 <tr style="background:rgba(255,68,68,0.30)"><td>2026-07</td><td style="color:#ff4444; font-weight:bold">-12.7%</td></tr>
 <tr style="background:rgba(0,255,0,0.13)"><td>2026-08</td><td style="color:#00ff00; font-weight:bold">+4.4%</td></tr>
-<tr style="background:rgba(255,68,68,0.21)"><td>2026-09</td><td style="color:#ff4444; font-weight:bold">-7.0%</td></tr>
+<tr style="background:rgba(255,68,68,0.14)"><td>2026-09</td><td style="color:#ff4444; font-weight:bold">-4.6%</td></tr>
 
         </tbody>
     </table>

diff --git a/paper_trading.html b/paper_trading.html
@@ -3,7 +3,7 @@
 <head>
     <meta charset="utf-8">
     <meta name="viewport" content="width=device-width, initial-scale=1.0">
-    <title>Paper Trading v8.5 — 2026-09-16</title>
+    <title>Paper Trading v8.5 — 2026-09-17</title>
     <meta name="description" content="TW Stocker v8.5 Paper Trading 實時績效追蹤">
     <script src="https://cdn.jsdelivr.net/npm/chart.js@4"></script>
     <style>
@@ -92,7 +92,7 @@
     <h1>📈 Paper Trading v8.5</h1>
     <p class="subtitle">
         <span class="badge badge-live">● LIVE</span>
-        起始日 2026-09-16 | 更新 2026-09-16 | 初始資金 200,000 | 保留本金 10%，其餘投入
+        起始日 2026-09-17 | 更新 2026-09-17 | 初始資金 200,000 | 保留本金 10%，其餘投入
     </p>
 
     <div class="metrics">
@@ -150,52 +150,52 @@
             
         <tr>
             <td><b>2883</b></td>
-            <td>39.1</td>
-            <td>43.5</td>
-            <td>35.9</td>
-            <td>2026-09-17</td>
-        </tr>
-        <tr>
-            <td><b>2884</b></td>
-            <td>46.5</td>
-            <td>51.6</td>
-            <td>42.6</td>
-            <td>2026-09-17</td>
-        </tr>
-        <tr>
-            <td><b>2887</b></td>
-            <td>44.4</td>
-            <td>49.4</td>
-            <td>40.7</td>
-            <td>2026-09-17</td>
+            <td>39.6</td>
+            <td>44.1</td>
+            <td>36.3</td>
+            <td>2026-09-18</td>
         </tr>
         <tr>
             <td><b>1303</b></td>
-            <td>224.0</td>
-            <td>284.7</td>
-            <td>178.5</td>
-            <td>2026-09-17</td>
+            <td>236.0</td>
+            <td>297.6</td>
+            <td>189.8</td>
+            <td>2026-09-18</td>
         </tr>
         <tr>
-            <td><b>2881</b></td>
-            <td>153.0</td>
-            <td>172.6</td>
-            <td>138.3</td>
-            <td>2026-09-17</td>
+            <td><b>2884</b></td>
+            <td>47.3</td>
+            <td>52.5</td>
+            <td>43.4</td>
+            <td>2026-09-18</td>
+        </tr>
+        <tr>
+            <td><b>2887</b></td>
+            <td>44.0</td>
+            <td>49.0</td>
+            <td>40.3</td>
+            <td>2026-09-18</td>
+        </tr>
+        <tr>
+            <td><b>2303</b></td>
+            <td>147.5</td>
+            <td>175.4</td>
+            <td>126.6</td>
+            <td>2026-09-18</td>
         </tr>
         <tr>
             <td><b>2892</b></td>
-            <td>40.0</td>
-            <td>43.6</td>
-            <td>37.3</td>
-            <td>2026-09-17</td>
+            <td>40.8</td>
+            <td>44.5</td>
+            <td>37.9</td>
+            <td>2026-09-18</td>
         </tr>
         <tr>
-            <td><b>3443</b></td>
-            <td>6170.0</td>
-            <td>7706.0</td>
-            <td>5018.0</td>
-            <td>2026-09-17</td>
+            <td><b>6505</b></td>
+            <td>86.2</td>
+            <td>103.4</td>
+            <td>73.3</td>
+            <td>2026-09-18</td>
         </tr>
         </table>
     </div>
@@ -219,7 +219,7 @@ const ctx = document.getElementById('equityChart').getContext('2d');
 new Chart(ctx, {
     type: 'line',
     data: {
-        labels: ["2026-09-16"],
+        labels: ["2026-09-17"],
         datasets: [{
             label: 'Paper Trading 權益',
             data: [200000],
